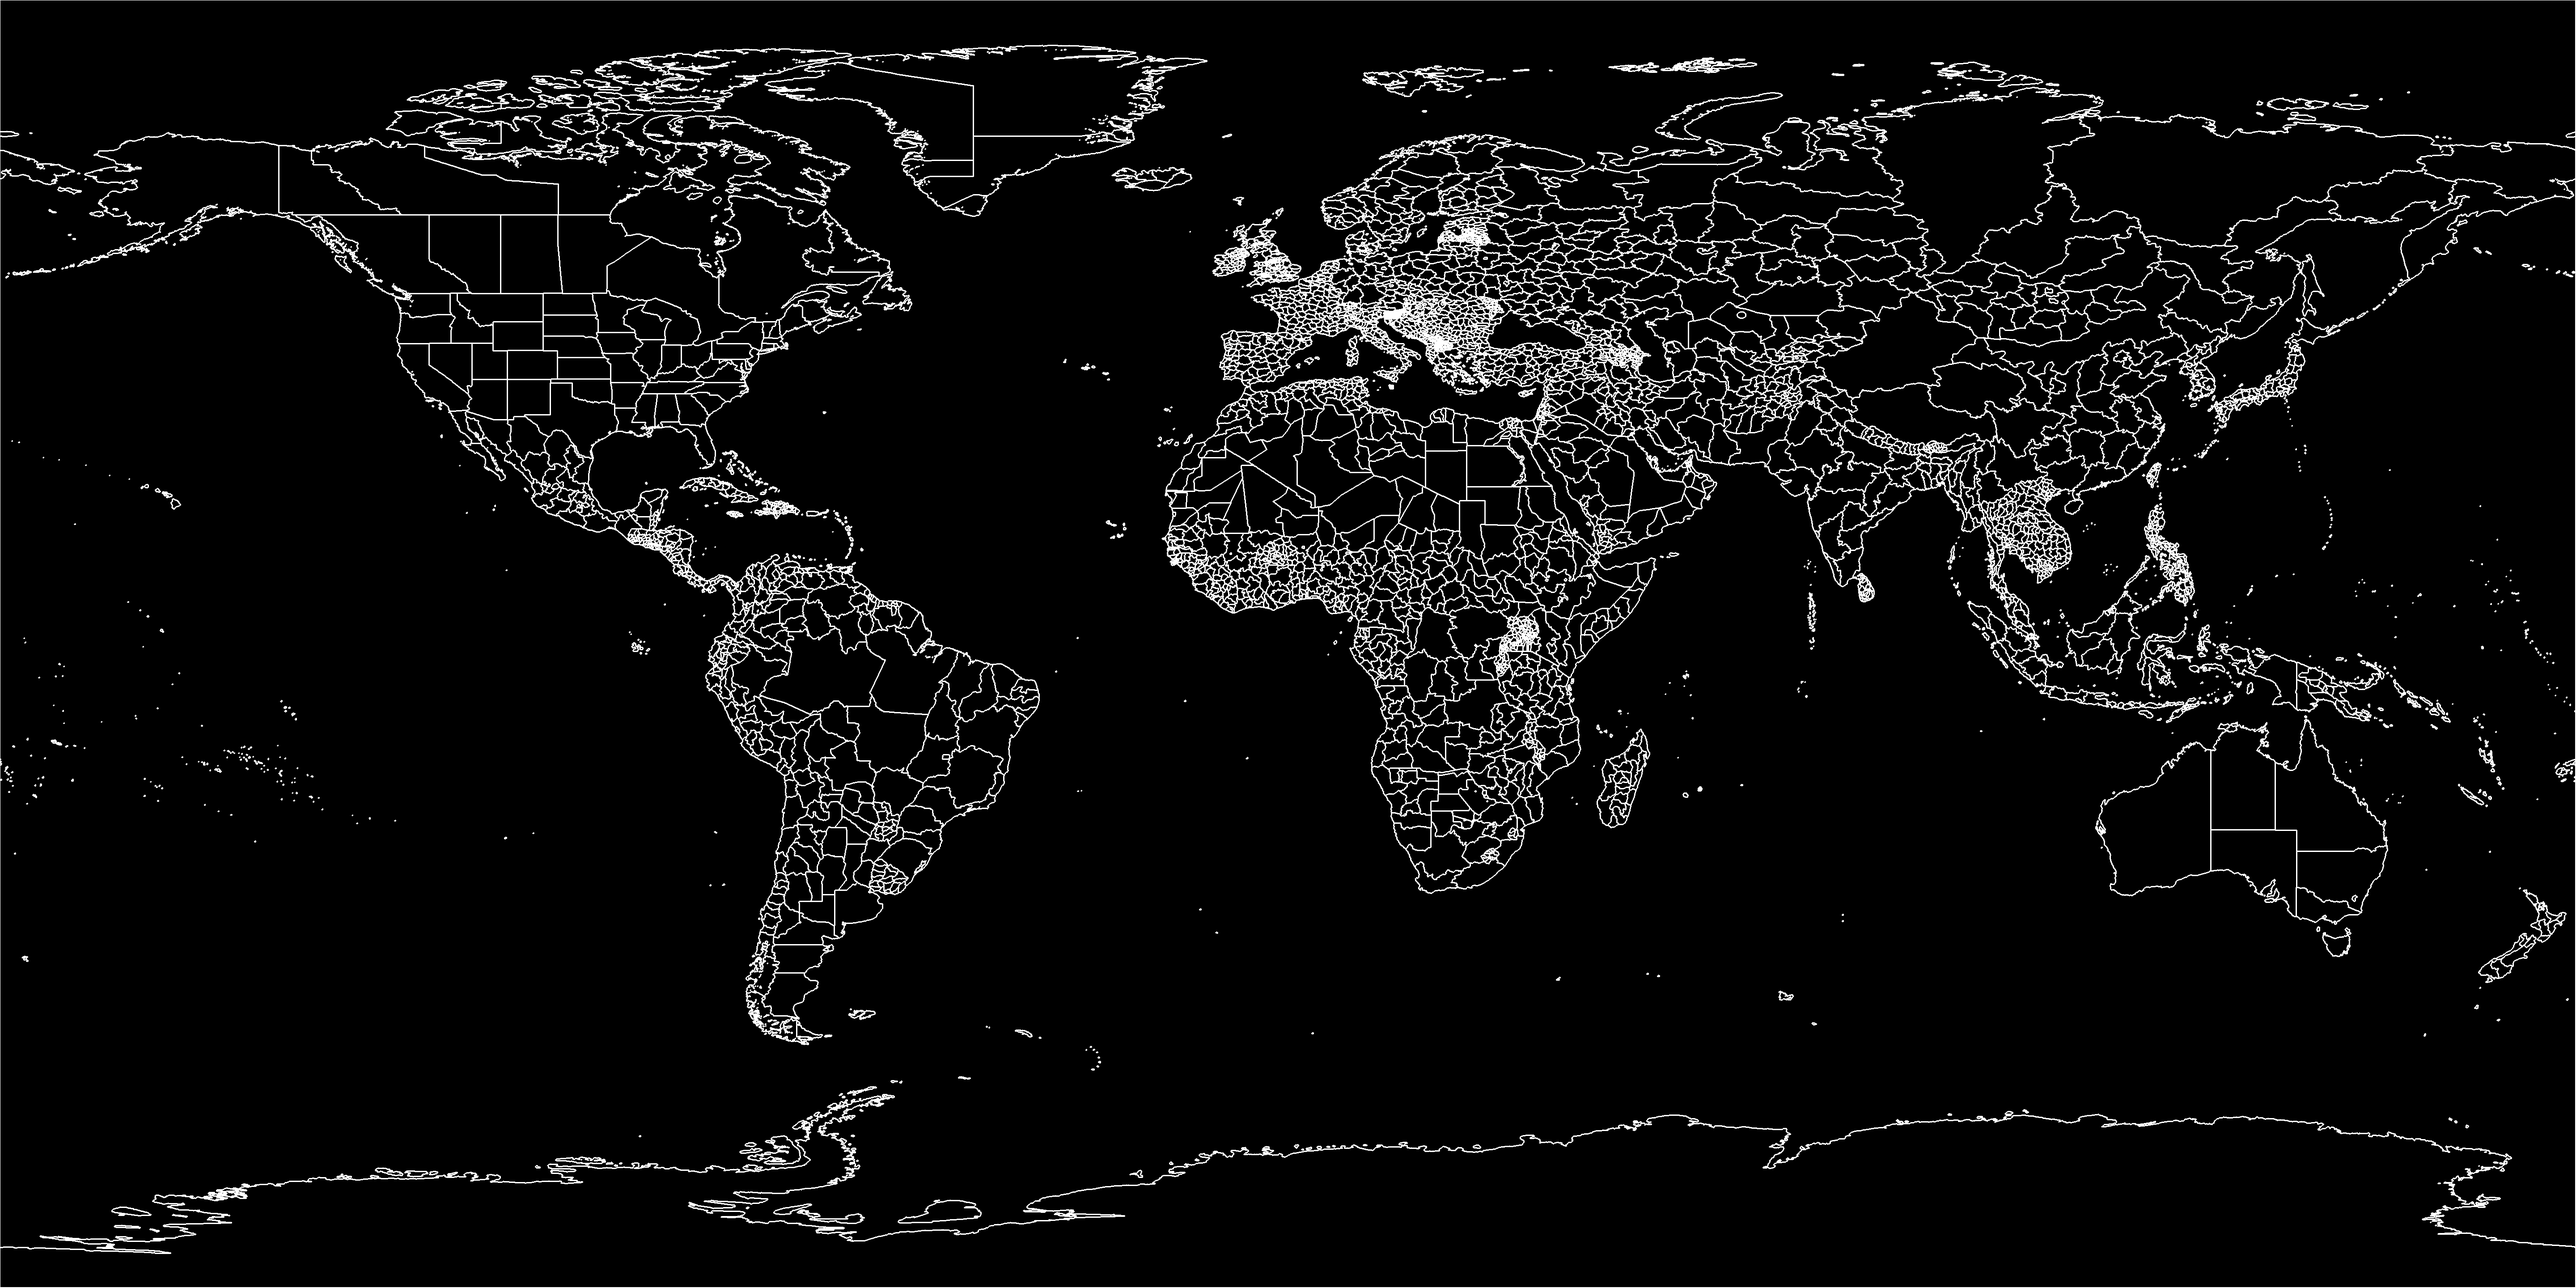
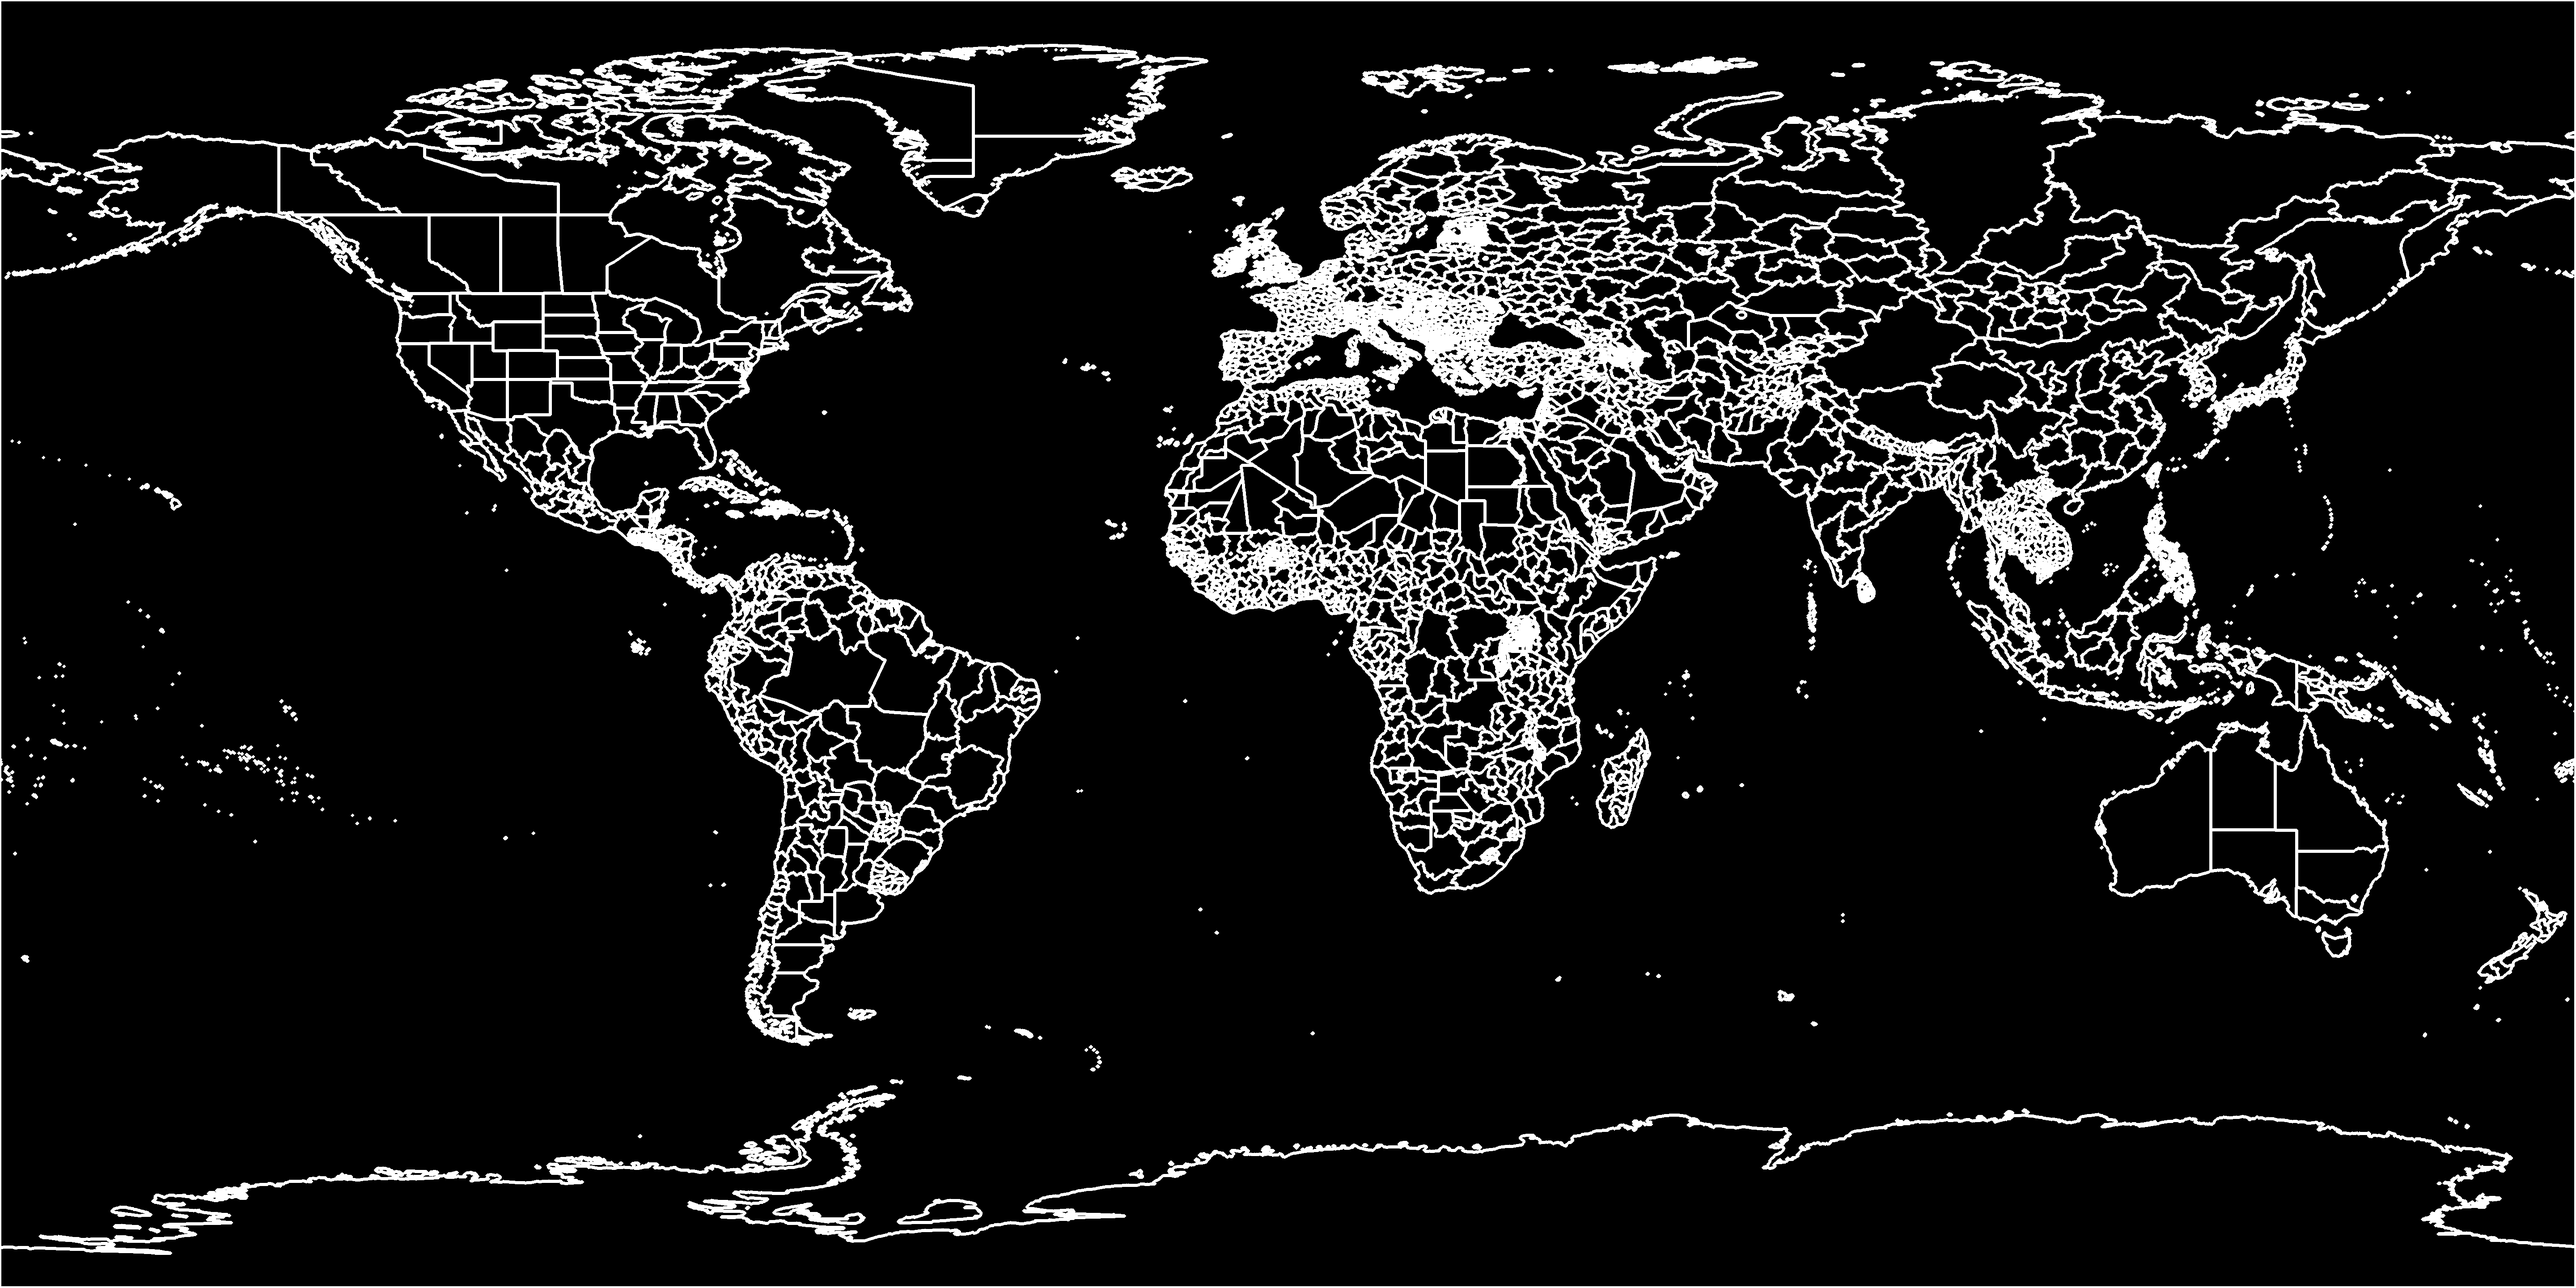
Fix map shader (constant-expression error, nearest filtering for crisp edges), thicken borders, dark UI theme, 1080p default window

diff --git a/src/UI/GameTheme.cs b/src/UI/GameTheme.cs
@@ -1,0 +1,76 @@
+using Godot;
+
+namespace GrandStrategy.UI;
+
+/// <summary>
+/// Единая тёмная тема интерфейса (панели, кнопки, поля, метки) — применяется глобально
+/// через ThemeDB.FallbackTheme на boot. Визуально близко к AoH3: тёмные панели с тонкой
+/// рамкой, акцентные кнопки, сдержанная палитра.
+/// </summary>
+public static class GameTheme
+{
+    public static readonly Color Accent = new(0.30f, 0.52f, 0.82f);
+    public static readonly Color AccentHover = new(0.40f, 0.63f, 0.92f);
+    public static readonly Color Text = new(0.86f, 0.89f, 0.94f);
+    public static readonly Color TextDim = new(0.62f, 0.66f, 0.74f);
+
+    public static Theme Build()
+    {
+        var theme = new Theme();
+
+        var panelStyle = Style(new Color(0.13f, 0.16f, 0.22f, 0.97f), new Color(0.24f, 0.30f, 0.42f));
+        theme.SetStylebox("panel", "Panel", panelStyle);
+        theme.SetStylebox("panel", "PanelContainer", panelStyle);
+        theme.SetStylebox("panel", "ScrollContainer",
+            Style(new Color(0.11f, 0.14f, 0.19f, 0.92f), new Color(0.18f, 0.22f, 0.30f)));
+
+        theme.SetStylebox("normal", "Button",
+            Style(new Color(0.17f, 0.21f, 0.29f), new Color(0.26f, 0.32f, 0.44f)));
+        theme.SetStylebox("hover", "Button",
+            Style(new Color(0.22f, 0.27f, 0.37f), new Color(0.38f, 0.47f, 0.62f)));
+        theme.SetStylebox("pressed", "Button",
+            Style(new Color(0.12f, 0.15f, 0.21f), Accent));
+        theme.SetStylebox("disabled", "Button",
+            Style(new Color(0.13f, 0.15f, 0.20f), new Color(0.18f, 0.21f, 0.27f)));
+        theme.SetColor("font_color", "Button", Text);
+        theme.SetColor("font_disabled_color", "Button", TextDim);
+        theme.SetFontSize("font_size", "Button", 15);
+
+        theme.SetColor("font_color", "Label", Text);
+        theme.SetFontSize("font_size", "Label", 15);
+
+        theme.SetStylebox("normal", "LineEdit",
+            Style(new Color(0.11f, 0.14f, 0.19f), new Color(0.26f, 0.32f, 0.44f)));
+        theme.SetStylebox("focus", "LineEdit",
+            Style(new Color(0.11f, 0.14f, 0.19f), Accent));
+        theme.SetColor("font_color", "LineEdit", Text);
+        theme.SetFontSize("font_size", "LineEdit", 15);
+
+        theme.SetColor("font_color", "CheckBox", Text);
+        theme.SetFontSize("font_size", "CheckBox", 15);
+
+        theme.SetColor("font_color", "OptionButton", Text);
+        theme.SetFontSize("font_size", "OptionButton", 15);
+
+        theme.SetConstant("separation", "VBoxContainer", 8);
+        theme.SetConstant("separation", "HBoxContainer", 10);
+
+        return theme;
+    }
+
+    /// <summary>Скруглённая тёмная панель с тонкой рамкой.</summary>
+    public static StyleBoxFlat Style(Color bg, Color border)
+    {
+        return new StyleBoxFlat
+        {
+            BgColor = bg,
+            BorderColor = border,
+            BorderWidthLeft = 1, BorderWidthRight = 1,
+            BorderWidthTop = 1, BorderWidthBottom = 1,
+            CornerRadiusTopLeft = 4, CornerRadiusTopRight = 4,
+            CornerRadiusBottomLeft = 4, CornerRadiusBottomRight = 4,
+            ContentMarginLeft = 10, ContentMarginRight = 10,
+            ContentMarginTop = 6, ContentMarginBottom = 6,
+        };
+    }
+}

diff --git a/tools/import_world.py b/tools/import_world.py
@@ -445,9 +445,10 @@ def main():
     border[:-1, :] |= ~same_v
     border[:, -1] = True
     border[-1, :] = True
-    # Утолщение границ на 1px (компенсация высокого разрешения — границы видны при отдалении).
-    border = (border | np.roll(border, 1, axis=0) | np.roll(border, -1, axis=0)
-              | np.roll(border, 1, axis=1) | np.roll(border, -1, axis=1))
+    # Утолщение границ (два прохода дилатации) — видны при любом зуме.
+    for _ in range(2):
+        border = (border | np.roll(border, 1, axis=0) | np.roll(border, -1, axis=0)
+                  | np.roll(border, 1, axis=1) | np.roll(border, -1, axis=1))
     bm = np.zeros((Hh, Ww, 3), dtype=np.uint8)
     bm[border] = 255
     Image.fromarray(bm).save(os.path.join(OUT_DIR, "border_mask.png"))

diff --git a/src/Map/MapRenderer.cs b/src/Map/MapRenderer.cs
@@ -71,11 +71,13 @@ public partial class MapRenderer : TextureRect
         {
             Shader = GD.Load<Shader>("res://assets/map/map.gdshader"),
         };
+        _material.SetShaderParameter("id_map", _idTexture);
         _material.SetShaderParameter("color_lut", _colorLut);
         _material.SetShaderParameter("country_lut", _countryLut);
         _material.SetShaderParameter("border_mask", _borderTexture);
         _material.SetShaderParameter("province_count", (float)n);
-        _material.SetShaderParameter("texel_size", new Vector2(1f / _idImage.GetWidth(), 1f / _idImage.GetHeight()));
+        _material.SetShaderParameter("map_width", (float)_idImage.GetWidth());
+        _material.SetShaderParameter("map_height", (float)_idImage.GetHeight());
         Material = _material;
 
         SetMapMode(MapMode.Political);

diff --git a/src/UI/UIManager.cs b/src/UI/UIManager.cs
@@ -99,9 +99,11 @@ public partial class UIManager : Node
         _canvas = new CanvasLayer();
         AddChild(_canvas);
 
-        // Верхняя панель.
+        // Верхняя панель (полоса управления).
         var topBar = new PanelContainer();
         topBar.SetAnchorsPreset(Control.LayoutPreset.TopWide);
+        topBar.AddThemeStyleboxOverride("panel", GameTheme.Style(
+            new Color(0.11f, 0.14f, 0.20f, 0.98f), new Color(0.22f, 0.28f, 0.40f)));
         _canvas.AddChild(topBar);
 
         var topHBox = new HBoxContainer();

diff --git a/src/Core/Main.cs b/src/Core/Main.cs
@@ -21,6 +21,9 @@ public partial class Main : Node
         };
         ThemeDB.FallbackFont = sysFont;
 
+        // Единая тёмная тема интерфейса.
+        ThemeDB.FallbackTheme = GrandStrategy.UI.GameTheme.Build();
+
         // 1. Настройки.
         SettingsManager.Instance.Load();
         ApplyDisplaySettings();
